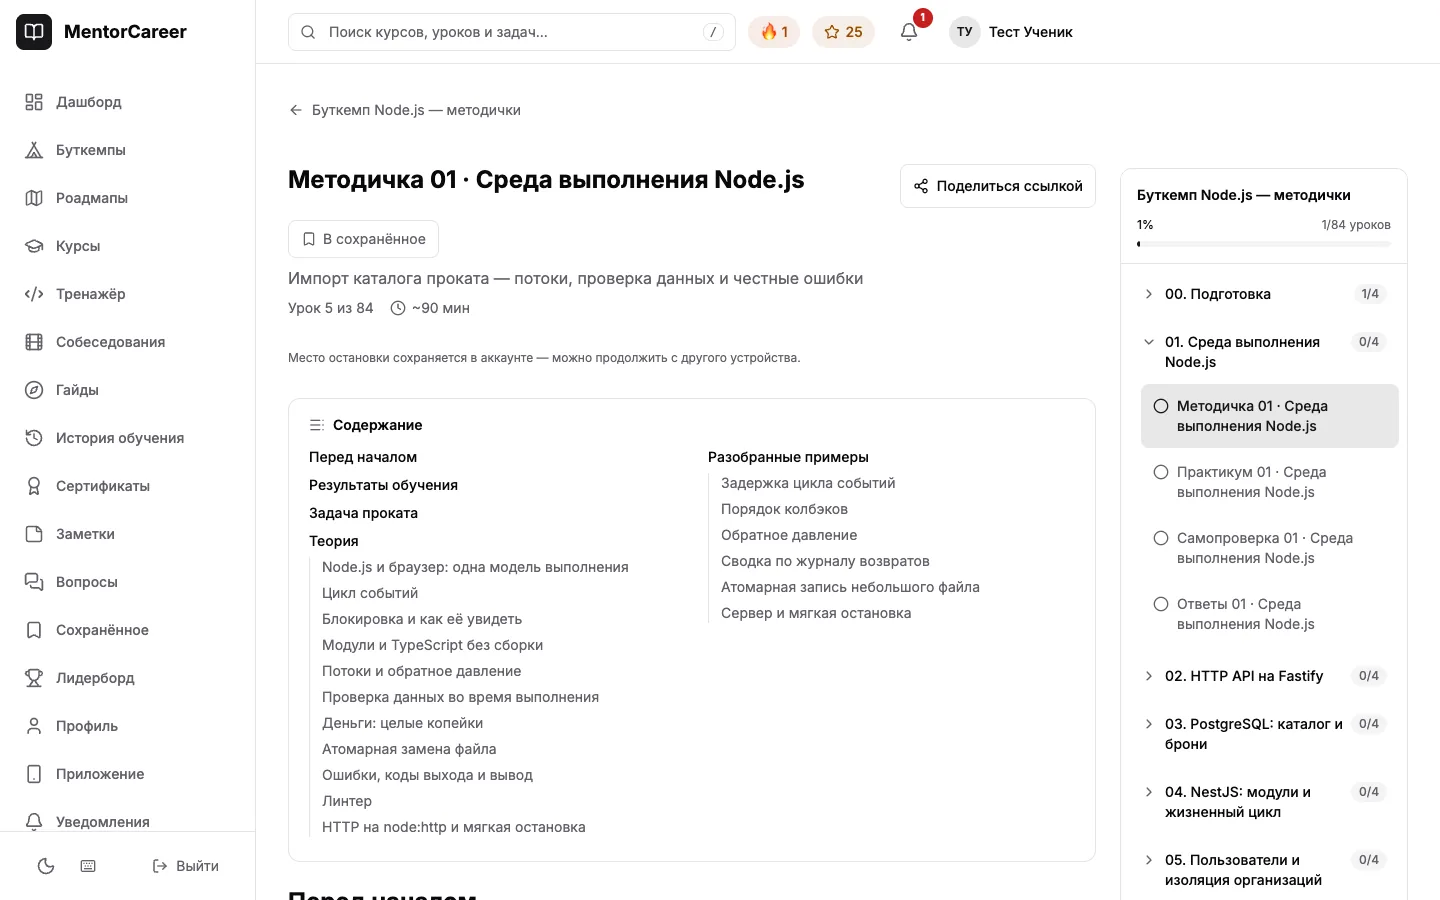
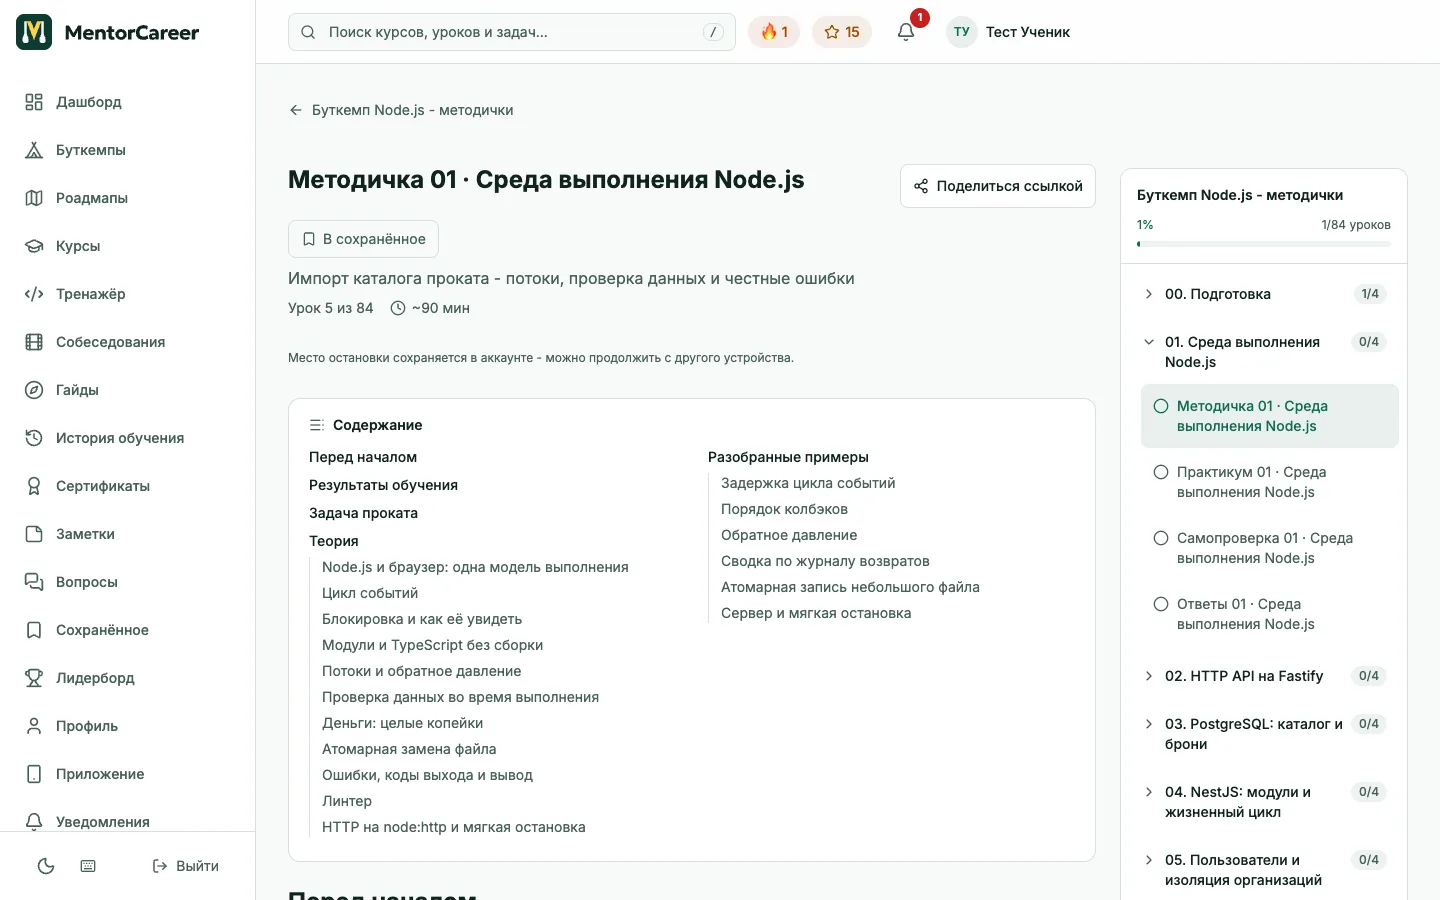
feat(landing): кабинет на странице буткемпа переснят в цветах знака
Два снимка учебного кабинета снимает scripts/brand/bootcamp-screens.ts:
временный ученик на проде, курс методичек, пройденная методичка 00,
удаление учёток в конце даже после ошибки. Расчёт меток вынесен в
screen-steps.ts; метки на странице буткемпа стоят у края пункта меню и
слева от кнопки, чтобы не закрывать надписи.

diff --git a/scripts/brand/bootcamp-screens.ts b/scripts/brand/bootcamp-screens.ts
@@ -1,0 +1,139 @@
+/**
+ * Два снимка учебного кабинета для страницы буткемпа (landing/public/bootcamp/path/bc-lms-*.webp)
+ * и координаты меток к ним в landing/src/data/bootcamp.ts.
+ *
+ *   pnpm exec tsx scripts/brand/bootcamp-screens.ts
+ *
+ * Снимает прод: программу буткемпа с методичками локально не повторить. Ученик временный
+ * (scripts/prod-test-accounts.mjs, домен .invalid, письма не уходят): ему открывается курс буткемпа
+ * и проходится первый урок. Учётки удаляются вместе с прогрессом и назначением в конце, даже если
+ * съёмка упала. Браузер как в guide-screens.ts: установленный Chrome или путь в BRAND_BROWSER.
+ */
+import { spawnSync } from 'node:child_process'
+import { readFileSync, writeFileSync } from 'node:fs'
+import { homedir } from 'node:os'
+import path from 'node:path'
+import { chromium, type Page } from '@playwright/test'
+import sharp from 'sharp'
+
+import { markPoint, patchSteps, type Point } from './screen-steps'
+
+const BASE_URL = process.env.PROD_BASE_URL ?? 'https://learn.mentorcareer.ru'
+const ENV_FILE = process.env.PROD_TEST_ENV ?? path.join(homedir(), '.config/lms-prod-test/accounts.env')
+const OUT = 'landing/public/bootcamp/path'
+const SCREENS_JSON = 'landing/src/data/screens.json'
+const BOOTCAMP_TS = 'landing/src/data/bootcamp.ts'
+const WIDTH = 1440
+const HEIGHT = 900
+
+function accounts(command: 'create' | 'delete') {
+  const result = spawnSync('node', ['scripts/prod-test-accounts.mjs', command], { stdio: 'inherit' })
+  if (result.status !== 0) throw new Error(`prod-test-accounts ${command}: код ${result.status}`)
+}
+
+function readEnv(): Record<string, string> {
+  return Object.fromEntries(
+    readFileSync(ENV_FILE, 'utf8')
+      .split('\n')
+      .filter((line) => line.includes('='))
+      .map((line) => [line.slice(0, line.indexOf('=')), line.slice(line.indexOf('=') + 1)]),
+  )
+}
+
+async function api<T>(route: string, init: RequestInit & { token?: string } = {}): Promise<T> {
+  const { token, ...rest } = init
+  const res = await fetch(`${BASE_URL}${route}`, {
+    ...rest,
+    headers: { 'Content-Type': 'application/json', ...(token ? { Authorization: `JWT ${token}` } : {}) },
+  })
+  if (!res.ok) throw new Error(`${rest.method ?? 'GET'} ${route}: ${res.status} ${await res.text()}`)
+  return res.json() as Promise<T>
+}
+
+/** Открывает ученику единственный опубликованный буткемп; имя курса нужно для проверки кадра. */
+async function grantBootcamp(env: Record<string, string>) {
+  const { token } = await api<{ token: string }>('/api/users/login', { method: 'POST', body: JSON.stringify({ email: env.PROD_ADMIN_EMAIL, password: env.PROD_ADMIN_PASSWORD }) })
+  const { docs } = await api<{ docs: { id: number; slug: string; title: string }[] }>('/api/courses?where[isBootcamp][equals]=true&where[isPublished][equals]=true&depth=0&limit=10', { token })
+  const [course] = docs
+  if (!course || docs.length > 1) throw new Error(`Ожидался один опубликованный буткемп, найдено ${docs.length}: снимок показал бы выбор, а не программу`)
+  await api('/api/learning-access-grants', { method: 'POST', token, body: JSON.stringify({ user: Number(env.PROD_STUDENT_ID), target: { relationTo: 'courses', value: course.id }, effect: 'allow', note: 'Съёмка лендинга, учётка удаляется' }) })
+  await api('/api/users/logout', { method: 'POST', token })
+  return course
+}
+
+async function frame(page: Page, file: string) {
+  await page.waitForLoadState('networkidle')
+  await page.addStyleTag({ content: '*, *::before, *::after { transition: none !important; animation: none !important; caret-color: transparent !important; }' })
+  await page.evaluate(() => document.fonts.ready)
+  const png = await page.screenshot({ clip: { x: 0, y: 0, width: WIDTH, height: HEIGHT } })
+  writeFileSync(path.join(OUT, `${file}.webp`), await sharp(png).webp({ quality: 82 }).toBuffer())
+  process.stdout.write(`${OUT}/${file}.webp\n`)
+}
+
+const hotspots: Record<string, Point[]> = {}
+accounts('create')
+try {
+  const env = readEnv()
+  const course = await grantBootcamp(env)
+  const browser = await chromium.launch(process.env.BRAND_BROWSER ? { executablePath: process.env.BRAND_BROWSER } : { channel: 'chrome' })
+  try {
+    const context = await browser.newContext({ baseURL: BASE_URL, viewport: { width: WIDTH, height: HEIGHT }, locale: 'ru-RU', timezoneId: 'Europe/Moscow', colorScheme: 'light', reducedMotion: 'reduce' })
+    // Лендинг светлый; окно установки приложения перекрыло бы экран.
+    await context.addInitScript(() => {
+      try {
+        localStorage.setItem('theme', 'light')
+        localStorage.setItem('lms:pwa-install-explained:v1', '1')
+      } catch {
+        // без хранилища останется светлая тема контекста
+      }
+    })
+    const login = await context.request.post('/api/users/login', { data: { email: env.PROD_STUDENT_EMAIL, password: env.PROD_STUDENT_PASSWORD }, headers: { Origin: BASE_URL } })
+    if (!login.ok()) throw new Error(`Вход ученика: ${login.status()}`)
+    const page = await context.newPage()
+
+    // Ученик после первой методички: прогресс не нулевой, у следующего урока метка «Следующий».
+    const main = page.getByRole('main')
+    // Ссылка на методичку недели; свёрнутую неделю сначала раскрываем.
+    const manualHref = async (week: string) => {
+      const link = main.getByRole('link', { name: new RegExp(`^Методичка ${week}`) }).first()
+      if (!(await link.isVisible())) await main.getByRole('button', { name: new RegExp(`^${week}\\.`) }).first().click()
+      const href = await link.getAttribute('href')
+      if (!href) throw new Error(`В программе ${course.title} нет методички ${week}`)
+      return href
+    }
+    await page.goto(`/bootcamp/${course.slug}`)
+    await page.waitForLoadState('networkidle')
+    await page.goto(await manualHref('00'))
+    await page.waitForLoadState('networkidle')
+    await page.getByRole('button', { name: 'Отметить пройденным' }).click()
+    await page.getByText('Урок пройден').first().waitFor()
+
+    await page.goto(`/bootcamp/${course.slug}`)
+    await page.getByRole('heading', { level: 1, name: course.title }).waitFor()
+    await frame(page, 'bc-lms-program')
+    // Метки по порядку шагов главы path-manual: пункт меню, неделя-раздел, кнопка следующего урока.
+    // Пункт меню и кнопку метка не закрывает: она у края пункта и слева от кнопки.
+    const resume = main.getByText('Продолжить', { exact: true }).first().locator('xpath=ancestor::*[self::a or self::button][1]')
+    hotspots['bc-lms-program'] = await Promise.all([
+      markPoint(page, page.getByRole('navigation', { name: 'Меню платформы' }).getByRole('link', { name: 'Буткемпы', exact: true }), WIDTH, HEIGHT, 'end'),
+      markPoint(page, main.getByText(/^00\. /).first(), WIDTH, HEIGHT),
+      markPoint(page, resume, WIDTH, HEIGHT, 'before'),
+    ])
+
+    await page.goto(await manualHref('01'))
+    await page.getByRole('heading', { level: 1, name: /^Методичка 01/ }).waitFor()
+    await frame(page, 'bc-lms-manual')
+    await context.close()
+  } finally {
+    await browser.close()
+  }
+} finally {
+  accounts('delete')
+}
+
+const screens = JSON.parse(readFileSync(SCREENS_JSON, 'utf8')) as Record<string, { width: number; height: number }>
+screens['bc-lms-program'] = { width: WIDTH, height: HEIGHT }
+screens['bc-lms-manual'] = { width: WIDTH, height: HEIGHT }
+writeFileSync(SCREENS_JSON, `${JSON.stringify(screens, null, 2)}\n`)
+writeFileSync(BOOTCAMP_TS, patchSteps(readFileSync(BOOTCAMP_TS, 'utf8'), hotspots, BOOTCAMP_TS))
+process.stdout.write(`${SCREENS_JSON}\n${BOOTCAMP_TS}\n`)

diff --git a/scripts/brand/guide-screens.ts b/scripts/brand/guide-screens.ts
@@ -17,6 +17,7 @@ import sharp from 'sharp'
 
 import { CONTENT, USERS } from '../../tests/e2e/fixtures/data'
 import { APP_URL } from '../../tests/e2e/fixtures/env'
+import { markPoint, patchSteps, type Point } from './screen-steps'
 
 const OUT = 'landing/public/guide'
 const SCREENS_JSON = 'landing/src/data/screens.json'
@@ -133,16 +134,9 @@ async function prepareStudent(page: Page) {
   await page.waitForLoadState('networkidle')
 }
 
-async function center(page: Page, target: Locator, width: number, height: number) {
-  const box = await target.boundingBox()
-  if (!box) throw new Error(`Нет элемента для метки на ${page.url()}: ${target}`)
-  const round = (value: number) => Math.round(value * 100) / 100
-  return { x: round(((box.x + box.width / 2) / width) * 100), y: round(((box.y + box.height / 2) / height) * 100) }
-}
-
 const browser = await chromium.launch(process.env.BRAND_BROWSER ? { executablePath: process.env.BRAND_BROWSER } : { channel: 'chrome' })
 const screens = JSON.parse(readFileSync(SCREENS_JSON, 'utf8')) as Record<string, { width: number; height: number }>
-const hotspots: Record<string, { x: number; y: number }[]> = {}
+const hotspots: Record<string, Point[]> = {}
 mkdirSync(OUT, { recursive: true })
 
 try {
@@ -176,7 +170,7 @@ try {
     const file = path.join(OUT, `${name}.webp`)
     writeFileSync(file, await sharp(png).webp({ quality: 82 }).toBuffer())
     screens[name] = { width, height: shot.height }
-    if (shot.targets) hotspots[name] = await Promise.all(shot.targets(page).map((target) => center(page, target, width, shot.height)))
+    if (shot.targets) hotspots[name] = await Promise.all(shot.targets(page).map((target) => markPoint(page, target, width, shot.height)))
     process.stdout.write(`${file}\n`)
     await context.close()
   }
@@ -184,26 +178,6 @@ try {
   await browser.close()
 }
 
-/** Координаты меток живут рядом с текстом шагов в guide.ts: заменяем их по порядку внутри главы снимка. */
-function patchGuide(source: string): string {
-  let result = source
-  for (const [name, points] of Object.entries(hotspots)) {
-    const start = result.indexOf(`screen: '${name}'`)
-    const stepsStart = result.indexOf('steps: [', start)
-    const stepsEnd = result.indexOf('\n    ],', stepsStart)
-    if (start < 0 || stepsStart < 0 || stepsEnd < 0) throw new Error(`В ${GUIDE_TS} нет шагов снимка ${name}`)
-    let index = 0
-    const steps = result.slice(stepsStart, stepsEnd).replace(/x: [\d.]+, y: [\d.]+/g, () => {
-      const point = points[index++]
-      if (!point) throw new Error(`У снимка ${name} меток меньше, чем шагов`)
-      return `x: ${point.x}, y: ${point.y}`
-    })
-    if (index !== points.length) throw new Error(`У снимка ${name} ${points.length} меток, а шагов ${index}`)
-    result = result.slice(0, stepsStart) + steps + result.slice(stepsEnd)
-  }
-  return result
-}
-
 writeFileSync(SCREENS_JSON, `${JSON.stringify(screens, null, 2)}\n`)
-writeFileSync(GUIDE_TS, patchGuide(readFileSync(GUIDE_TS, 'utf8')))
+writeFileSync(GUIDE_TS, patchSteps(readFileSync(GUIDE_TS, 'utf8'), hotspots, GUIDE_TS))
 process.stdout.write(`${SCREENS_JSON}\n${GUIDE_TS}\n`)

diff --git a/landing/src/data/bootcamp.ts b/landing/src/data/bootcamp.ts
@@ -201,9 +201,9 @@ export const PATH: PathChapter[] = [
     intro: 'Материалы лежат в учебном кабинете MentorCareer, в разделе «Буткемпы». Там программа потока по неделям. Методичка недели объясняет тему, разбирает пример и ставит задание.',
     screen: 'bc-lms-program', alt: 'Учебный кабинет: раздел «Буткемпы» с программой буткемпа и методичками по неделям',
     steps: [
-      { title: 'Раздел «Буткемпы»', text: 'Пункт меню появляется, когда вас зачислили на поток. В нём программа вашего буткемпа.', x: 14.9, y: 16.7 },
-      { title: 'Неделя - это раздел', text: 'В каждой неделе четыре урока: методичка с теорией и разобранными примерами, практикум с заданием, самопроверка и ответы к ней.', x: 42.4, y: 59 },
-      { title: 'Прогресс и следующий шаг', text: 'Прогресс считается по пройденным урокам. Кнопка «Продолжить» открывает следующий урок.', x: 76.4, y: 47.9 },
+      { title: 'Раздел «Буткемпы»', text: 'Пункт меню появляется, когда вас зачислили на поток. В нём программа вашего буткемпа.', x: 14.93, y: 16.67 },
+      { title: 'Неделя - это раздел', text: 'В каждой неделе четыре урока: методичка с теорией и разобранными примерами, практикум с заданием, самопроверка и ответы к ней.', x: 58.29, y: 59 },
+      { title: 'Прогресс и следующий шаг', text: 'Прогресс считается по пройденным урокам. Кнопка «Продолжить» открывает следующий урок.', x: 77.29, y: 47.89 },
     ],
     extra: { screen: 'bc-lms-manual', alt: 'Методичка недели 1 «Среда выполнения Node.js»: содержание с теорией и разобранными примерами', caption: 'Методичка недели 1: задача проката, теория и разобранные примеры.' },
   },

diff --git a/scripts/brand/screen-steps.ts b/scripts/brand/screen-steps.ts
@@ -1,0 +1,38 @@
+/** Метки шагов на снимках лендинга: точка на элементе в процентах от кадра и запись координат в файл с шагами. */
+import type { Locator, Page } from '@playwright/test'
+
+export type Point = { x: number; y: number }
+
+/** Где стоит метка: в центре элемента, у его правого края или слева от него, чтобы не закрыть надпись. */
+export type Place = 'center' | 'end' | 'before'
+
+// Метка на лендинге 32 px, кадр 1440 px показан шириной около 1120 px: на снимке это около 40 px.
+const EDGE = { end: -28, before: -24 } as const
+
+export async function markPoint(page: Page, target: Locator, width: number, height: number, place: Place = 'center'): Promise<Point> {
+  const box = await target.boundingBox()
+  if (!box) throw new Error(`Нет элемента для метки на ${page.url()}: ${target}`)
+  const x = place === 'end' ? box.x + box.width + EDGE.end : place === 'before' ? box.x + EDGE.before : box.x + box.width / 2
+  const round = (value: number) => Math.round(value * 100) / 100
+  return { x: round((x / width) * 100), y: round(((box.y + box.height / 2) / height) * 100) }
+}
+
+/** Координаты живут рядом с текстом шагов: заменяем их по порядку внутри главы снимка. */
+export function patchSteps(source: string, hotspots: Record<string, Point[]>, file: string): string {
+  let result = source
+  for (const [name, points] of Object.entries(hotspots)) {
+    const start = result.indexOf(`screen: '${name}'`)
+    const stepsStart = result.indexOf('steps: [', start)
+    const stepsEnd = result.indexOf('\n    ],', stepsStart)
+    if (start < 0 || stepsStart < 0 || stepsEnd < 0) throw new Error(`В ${file} нет шагов снимка ${name}`)
+    let index = 0
+    const steps = result.slice(stepsStart, stepsEnd).replace(/x: [\d.]+, y: [\d.]+/g, () => {
+      const point = points[index++]
+      if (!point) throw new Error(`У снимка ${name} меток меньше, чем шагов`)
+      return `x: ${point.x}, y: ${point.y}`
+    })
+    if (index !== points.length) throw new Error(`У снимка ${name} ${points.length} меток, а шагов ${index}`)
+    result = result.slice(0, stepsStart) + steps + result.slice(stepsEnd)
+  }
+  return result
+}

diff --git a/docs/bootcamp-leads.md b/docs/bootcamp-leads.md
@@ -92,9 +92,11 @@ Astro). Тексты — `landing/src/pages/bootcamp/nodejs.astro` и `landing/s
   настоящий CI, доверенная проверка (26 из 26), ревью и слияние от root (наставник,
   имя «Евгений Надточеев»). Пароль test-student — в связке «GitLab test-student».
   Интерфейс GitLab английский, боковое меню свёрнуто (cookie `super_sidebar_collapsed`).
-- Учебный кабинет — временный ученик `scripts/prod-test-accounts.mjs` с назначенным
-  курсом методичек, светлая тема (`localStorage.theme = 'light'`), пройдена методичка 00.
-  Учётку удаляют в том же заходе.
+- Учебный кабинет (переснят 10.11.2026 в цветах знака) — `pnpm exec tsx scripts/brand/bootcamp-screens.ts`.
+  Скрипт снимает прод: создаёт временного ученика `scripts/prod-test-accounts.mjs`, открывает ему
+  курс методичек, проходит методичку 00, снимает программу и методичку 01 в светлой теме, пишет
+  размеры в `screens.json` и метки в `bootcamp.ts`, в конце удаляет учётки даже после ошибки.
+  Это запись на проде: запускать с согласия владельца.
 
 Переснимать после заметной смены интерфейса GitLab или LMS; координаты меток —
 проценты от размера снимка.

diff --git a/docs/brand.md b/docs/brand.md
@@ -22,8 +22,8 @@
 меток в `landing/src/data/guide.ts`. После него нужен `og.ts`: картинка лендинга для соцсетей
 построена на снимке дашборда. Переснимать после заметной смены интерфейса, иначе инструкция
 показывает не ту платформу, что видит ученик. Два снимка кабинета на странице буткемпа
-(`landing/public/bootcamp/path/bc-lms-*.webp`) показывают настоящий курс с прода, их снимают
-отдельно, см. `docs/bootcamp-leads.md`.
+(`landing/public/bootcamp/path/bc-lms-*.webp`) показывают настоящий курс с прода, их снимает
+`scripts/brand/bootcamp-screens.ts` временной учёткой, см. `docs/bootcamp-leads.md`.
 
 Письма (`src/payload/emails/templates.ts`) и админка Payload (`src/app/(payload)/custom.scss`,
 логотип и значок из `src/components/brand/AdminBrand.tsx`) тоже в цветах знака. Схемы mermaid в
